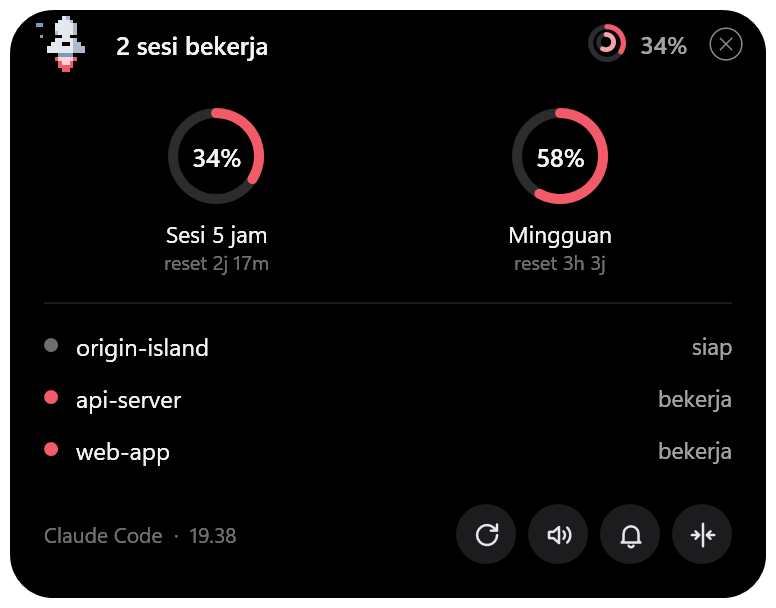
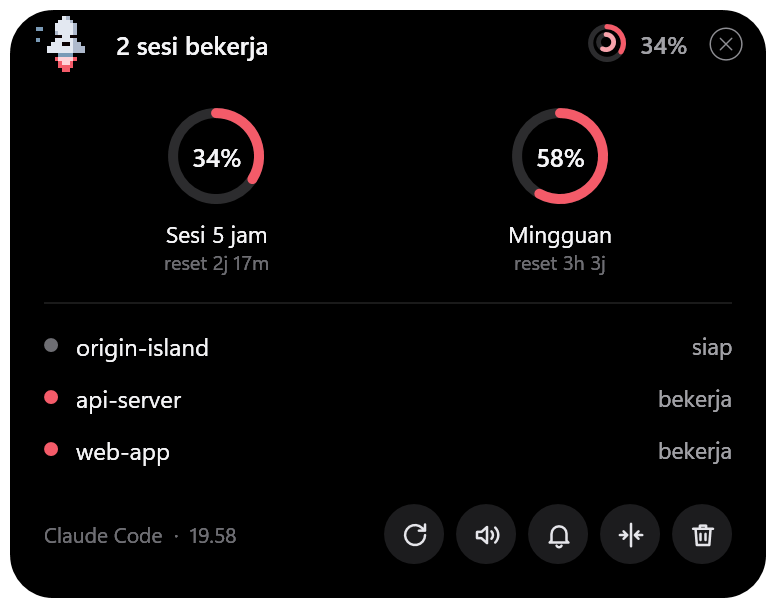
feat(site): menu ponsel dari kanan, anatomi notifikasi, dan fungsi tombol
- Menu ponsel kini panel dari kanan: tautan berikon, pemisah, tombol
  "Pasang sekarang", dan baris "Mode tampilan" (terang/sistem/gelap) di
  bawah. Klik tautan menutup panel. Navbar desktop tidak berubah.
- Bagian Tampilan: "Saat Claude selesai, ini yang muncul" menjelaskan isi
  notifikasi (judul & maskot, nama proyek, cuplikan balasan, ringkasan
  kuota, suara & klik), dan "Tombol di panel" menjelaskan fungsi setiap
  tombol dengan ikon yang sama persis dengan aplikasi, plus gerakan
  (seret, klik pil, klik baris sesi).
- Gambar panel hover dirender ulang dengan tombol uninstall.

diff --git a/docs/index.html b/docs/index.html
@@ -66,6 +66,49 @@
     @media (prefers-reduced-motion: reduce) { .sky .tw, .moon { animation: none; } }
     @media print { .sky, .moon { display: none; } }
 
+    /* Anatomi notifikasi & daftar tombol */
+    .anatomy { display: grid; gap: var(--space-lg); align-items: center; margin-top: var(--space-2xl); }
+    @media (min-width: 52rem) { .anatomy { grid-template-columns: minmax(0, 1fr) minmax(0, 1fr); } }
+    .anatomy__list { display: grid; gap: var(--space-sm); margin: 0; padding: 0; counter-reset: a; list-style: none; }
+    .anatomy__list li { display: grid; grid-template-columns: 2rem minmax(0, 1fr); column-gap: var(--space-sm); counter-increment: a; }
+    .anatomy__list li::before { content: counter(a); grid-row: span 2; display: grid; place-items: center; width: 2rem; height: 2rem; border-radius: 50%; background: var(--primary-tint); color: var(--primary-tint-text); font: var(--fw-bold) var(--fs-sm)/1 var(--font-display); }
+    .anatomy__list span { color: var(--text-muted); font-size: var(--fs-sm); }
+    .buttons-help { display: grid; gap: var(--space-xs); margin-top: var(--space-2xl); }
+    .btn-list { display: grid; gap: var(--space-md); margin: var(--space-sm) 0 0; padding: 0; list-style: none; grid-template-columns: repeat(auto-fill, minmax(min(100%, 16rem), 1fr)); }
+    .btn-list li { display: flex; gap: var(--space-sm); align-items: flex-start; }
+    .btn-list p { color: var(--text-muted); font-size: var(--fs-sm); }
+    .btn-chip { flex: 0 0 auto; display: grid; place-items: center; width: 2.5rem; height: 2.5rem; border-radius: 50%; background: var(--content-ink); color: var(--content-mist); }
+    .btn-chip .icon { width: 1.1rem; height: 1.1rem; }
+    .btn-chip--danger { color: var(--danger); }
+    .gestures { margin-top: var(--space-lg); padding: var(--space-md); border: 1px solid var(--border-subtle); border-radius: var(--radius-lg); background: var(--bg-surface); }
+    .gestures dt { display: inline-flex; align-items: center; gap: 0.45rem; font-weight: var(--fw-semibold); color: var(--text-main); }
+    .gestures dt .icon { width: 1.05rem; height: 1.05rem; color: var(--primary); }
+
+    /* Menu ponsel: panel dari kanan berisi ikon, CTA, dan pilihan mode (desktop tidak berubah) */
+    .nav-icon, .nav-extra { display: none; }
+    @media (max-width: 52rem) {
+      .site-header__nav {
+        inset: 0 0 0 auto;
+        border-right: 0;
+        border-left: 1px solid var(--border-subtle);
+        padding-left: var(--space-sm);
+        padding-right: max(var(--space-sm), env(safe-area-inset-right, 0px));
+        transform: translateX(105%);
+      }
+      .site-header__nav .nav { gap: 0.25rem; }
+      .site-header__nav .nav a { gap: 0.85rem; padding-inline: 0.75rem; font-size: var(--fs-md); font-weight: var(--fw-semibold); }
+      .nav-icon { display: inline-block; color: var(--primary); }
+      .nav-extra { display: block; padding-top: var(--space-sm); border-top: 1px solid var(--border-subtle); }
+      .nav-mode {
+        display: flex; align-items: center; justify-content: space-between; gap: var(--space-xs);
+        margin: auto calc(-1 * var(--space-sm)) calc(-1 * var(--space-sm));
+        padding: var(--space-sm);
+        background: var(--bg-muted);
+      }
+      .nav-mode__label { display: inline-flex; align-items: center; gap: 0.6rem; font-weight: var(--fw-semibold); }
+      .nav-mode__label .icon { color: var(--primary); }
+    }
+
     /* Tombol GitHub: logo + jumlah star */
     .gh-btn { gap: 0.45rem; }
     .gh-btn__stars { display: inline-flex; align-items: center; gap: 0.25rem; padding-left: 0.5rem; border-left: 1px solid var(--border-subtle); font-variant-numeric: tabular-nums; }
@@ -76,6 +119,13 @@
 <body>
 <!-- Logo GitHub (Simple Icons, CC0); design system belum menyediakannya -->
 <svg width="0" height="0" style="position: absolute" aria-hidden="true">
+  <!-- Ikon tombol, sama persis dengan aplikasi (icons/*.svg) -->
+  <symbol id="ii-refresh" viewBox="0 0 24 24" fill="none" stroke="currentColor" stroke-width="2" stroke-linecap="round" stroke-linejoin="round"><path d="M 20 12 A 8 8 0 1 1 17.66 6.34 L 20 8.5"/><path d="M 20 3.5 L 20 8.5 L 15 8.5"/></symbol>
+  <symbol id="ii-sound-on" viewBox="0 0 24 24" fill="none" stroke="currentColor" stroke-width="2" stroke-linecap="round" stroke-linejoin="round"><path d="M 4 9.5 L 7.5 9.5 L 12 5.5 L 12 18.5 L 7.5 14.5 L 4 14.5 Z"/><path d="M 15.5 9 A 4.2 4.2 0 0 1 15.5 15"/><path d="M 18.5 6 A 8.5 8.5 0 0 1 18.5 18"/></symbol>
+  <symbol id="ii-bell" viewBox="0 0 24 24" fill="none" stroke="currentColor" stroke-width="2" stroke-linecap="round" stroke-linejoin="round"><path d="M 6 16.5 L 6 11 A 6 6 0 0 1 18 11 L 18 16.5 L 19.5 18 L 4.5 18 Z"/><path d="M 10 20.5 A 2.2 2.2 0 0 0 14 20.5"/></symbol>
+  <symbol id="ii-center" viewBox="0 0 24 24" fill="none" stroke="currentColor" stroke-width="2" stroke-linecap="round" stroke-linejoin="round"><path d="M 12 3 L 12 21"/><path d="M 3 12 L 9 12 M 6 9 L 9 12 L 6 15"/><path d="M 21 12 L 15 12 M 18 9 L 15 12 L 18 15"/></symbol>
+  <symbol id="ii-trash" viewBox="0 0 24 24" fill="none" stroke="currentColor" stroke-width="2" stroke-linecap="round" stroke-linejoin="round"><path d="M 4 7 L 20 7"/><path d="M 9.5 7 L 9.5 4.5 L 14.5 4.5 L 14.5 7"/><path d="M 6 7 L 7 20 L 17 20 L 18 7"/><path d="M 10 11 L 10 16"/><path d="M 14 11 L 14 16"/></symbol>
+  <symbol id="ii-exit" viewBox="0 0 50 50"><path fill="currentColor" stroke="none" d="M 25 2 C 12.309534 2 2 12.309534 2 25 C 2 37.690466 12.309534 48 25 48 C 37.690466 48 48 37.690466 48 25 C 48 12.309534 37.690466 2 25 2 z M 25 4 C 36.609534 4 46 13.390466 46 25 C 46 36.609534 36.609534 46 25 46 C 13.390466 46 4 36.609534 4 25 C 4 13.390466 13.390466 4 25 4 z M 32.990234 15.986328 A 1.0001 1.0001 0 0 0 32.292969 16.292969 L 25 23.585938 L 17.707031 16.292969 A 1.0001 1.0001 0 0 0 16.990234 15.990234 A 1.0001 1.0001 0 0 0 16.292969 17.707031 L 23.585938 25 L 16.292969 32.292969 A 1.0001 1.0001 0 1 0 17.707031 33.707031 L 25 26.414062 L 32.292969 33.707031 A 1.0001 1.0001 0 1 0 33.707031 32.292969 L 26.414062 25 L 33.707031 17.707031 A 1.0001 1.0001 0 0 0 32.990234 15.986328 z"/></symbol>
   <symbol id="b-github" viewBox="0 0 24 24"><path fill="currentColor" stroke="none" d="M12 .297c-6.63 0-12 5.373-12 12 0 5.303 3.438 9.8 8.205 11.385.6.113.82-.258.82-.577 0-.285-.01-1.04-.015-2.04-3.338.724-4.042-1.61-4.042-1.61C4.422 18.07 3.633 17.7 3.633 17.7c-1.087-.744.084-.729.084-.729 1.205.084 1.838 1.236 1.838 1.236 1.07 1.835 2.809 1.305 3.495.998.108-.776.417-1.305.76-1.605-2.665-.3-5.466-1.332-5.466-5.93 0-1.31.465-2.38 1.235-3.22-.135-.303-.54-1.523.105-3.176 0 0 1.005-.322 3.3 1.23.96-.267 1.98-.399 3-.405 1.02.006 2.04.138 3 .405 2.28-1.552 3.285-1.23 3.285-1.23.645 1.653.24 2.873.12 3.176.765.84 1.23 1.91 1.23 3.22 0 4.61-2.805 5.625-5.475 5.92.42.36.81 1.096.81 2.22 0 1.606-.015 2.896-.015 3.286 0 .315.21.69.825.57C20.565 22.092 24 17.592 24 12.297c0-6.627-5.373-12-12-12"/></symbol>
 </svg>
 <div class="sky" aria-hidden="true"></div>
@@ -93,11 +143,23 @@
         <button class="btn btn--ghost btn--icon btn--sm" type="button" data-menu-toggle aria-controls="menu" aria-expanded="false" aria-label="Tutup menu"><svg class="icon" aria-hidden="true"><use href="assets/origin-sprite.svg#i-x"/></svg></button>
       </div>
       <ul class="nav">
-        <li><a href="#fitur">Fitur</a></li>
-        <li><a href="#tampilan">Tampilan</a></li>
-        <li><a href="#pasang">Cara pasang</a></li>
-        <li><a href="#faq">FAQ</a></li>
+        <li><a href="#fitur"><svg class="icon nav-icon" aria-hidden="true"><use href="assets/origin-sprite.svg#i-sparkles"/></svg>Fitur</a></li>
+        <li><a href="#tampilan"><svg class="icon nav-icon" aria-hidden="true"><use href="assets/origin-sprite.svg#i-eye"/></svg>Tampilan</a></li>
+        <li><a href="#pasang"><svg class="icon nav-icon" aria-hidden="true"><use href="assets/origin-sprite.svg#i-download"/></svg>Cara pasang</a></li>
+        <li><a href="#faq"><svg class="icon nav-icon" aria-hidden="true"><use href="assets/origin-sprite.svg#i-help-circle"/></svg>FAQ</a></li>
       </ul>
+      <!-- Hanya di panel ponsel -->
+      <div class="nav-extra">
+        <a class="btn btn--accent btn--block" href="#pasang">Pasang sekarang<svg class="icon" aria-hidden="true"><use href="assets/origin-sprite.svg#i-arrow-right"/></svg></a>
+      </div>
+      <div class="nav-extra nav-mode">
+        <span class="nav-mode__label"><svg class="icon" aria-hidden="true"><use href="assets/origin-sprite.svg#i-palette"/></svg>Mode tampilan</span>
+        <div class="segmented segmented--icons" role="group" aria-label="Mode tampilan">
+          <button type="button" data-theme-choice="light" aria-label="Terang" aria-pressed="false"><svg class="icon" aria-hidden="true"><use href="assets/origin-sprite.svg#i-sun"/></svg></button>
+          <button type="button" data-theme-choice="system" aria-label="Ikuti sistem" aria-pressed="true"><svg class="icon" aria-hidden="true"><use href="assets/origin-sprite.svg#i-monitor"/></svg></button>
+          <button type="button" data-theme-choice="dark" aria-label="Gelap" aria-pressed="false"><svg class="icon" aria-hidden="true"><use href="assets/origin-sprite.svg#i-moon"/></svg></button>
+        </div>
+      </div>
     </nav>
     <div class="site-header__actions">
       <div class="segmented segmented--icons hide-mobile" role="group" aria-label="Mode tampilan">
@@ -177,6 +239,41 @@
         </div>
         <figure class="shot shots__wide"><img src="img/hover.png" width="776" height="608" alt="Panel Origin Island saat disorot: cincin kuota sesi 5 jam 34% dan mingguan 58%, tiga sesi aktif, dan tombol perbarui, suara, tes suara, serta ke tengah." loading="lazy"><figcaption>Saat disorot: kuota, sesi aktif, dan tombol</figcaption></figure>
       </div>
+
+      <!-- Anatomi notifikasi selesai -->
+      <div class="anatomy" id="notifikasi">
+        <figure class="shot shots__wide"><img src="img/done.png" width="776" height="402" alt="Contoh notifikasi Claude selesai dari Origin Island." loading="lazy"></figure>
+        <div class="stack">
+          <h3>Saat Claude selesai, ini yang muncul</h3>
+          <ol class="anatomy__list">
+            <li><strong>Judul &amp; maskot</strong><span>"Claude selesai" dengan Ogin bercentang hijau. Jenis lain: <em>Claude butuh izin</em> (kuning) dan <em>Claude gagal</em> (merah).</span></li>
+            <li><strong>Nama proyek</strong><span>Folder tempat sesi itu berjalan, misalnya <code>web-app</code>, jadi Anda tahu sesi mana yang selesai.</span></li>
+            <li><strong>Cuplikan balasan</strong><span>Kalimat terakhir dari Claude, supaya Anda tahu hasilnya tanpa membuka terminal.</span></li>
+            <li><strong>Ringkasan kuota</strong><span>Sisa kuota sesi 5 jam dan mingguan saat itu.</span></li>
+            <li><strong>Suara &amp; klik</strong><span>Suara notifikasi berbunyi, lalu notifikasi menutup sendiri setelah beberapa detik. Klik untuk langsung ke terminal sesi itu.</span></li>
+          </ol>
+        </div>
+      </div>
+
+      <!-- Fungsi tombol -->
+      <div class="buttons-help">
+        <h3>Tombol di panel</h3>
+        <p class="lead">Muncul saat kursor diarahkan ke pil.</p>
+        <ul class="btn-list">
+          <li><span class="btn-chip"><svg class="icon" aria-hidden="true"><use href="#ii-refresh"/></svg></span><div><strong>Muat ulang kuota</strong><p>Membaca ulang angka kuota terbaru dari Claude Code.</p></div></li>
+          <li><span class="btn-chip"><svg class="icon" aria-hidden="true"><use href="#ii-sound-on"/></svg></span><div><strong>Suara nyala/mati</strong><p>Menyalakan atau mematikan suara notifikasi. Pilihan Anda diingat.</p></div></li>
+          <li><span class="btn-chip"><svg class="icon" aria-hidden="true"><use href="#ii-bell"/></svg></span><div><strong>Tes suara</strong><p>Memutar suara notifikasi untuk mengecek volume.</p></div></li>
+          <li><span class="btn-chip"><svg class="icon" aria-hidden="true"><use href="#ii-center"/></svg></span><div><strong>Ke tengah</strong><p>Memindahkan pil ke tengah atas layar tempat ia berada (utama maupun monitor kedua).</p></div></li>
+          <li><span class="btn-chip btn-chip--danger"><svg class="icon" aria-hidden="true"><use href="#ii-trash"/></svg></span><div><strong>Uninstall</strong><p>Menghapus Origin Island beserta hook-nya. Selalu meminta konfirmasi dulu.</p></div></li>
+          <li><span class="btn-chip btn-chip--danger"><svg class="icon" aria-hidden="true"><use href="#ii-exit"/></svg></span><div><strong>Tutup (kanan atas)</strong><p>Menutup pil. Pil menyala lagi saat Claude dipakai atau terminal WSL dibuka.</p></div></li>
+        </ul>
+        <dl class="kv gestures">
+          <dt><svg class="icon" aria-hidden="true"><use href="assets/origin-sprite.svg#i-move"/></svg>Seret pil</dt><dd>Geser ke kiri, kanan, atau ke monitor lain. Posisinya diingat.</dd>
+          <dt><svg class="icon" aria-hidden="true"><use href="assets/origin-sprite.svg#i-laptop"/></svg>Klik pil / notifikasi</dt><dd>Membuka terminal sesi terkait (Windows Terminal atau VS Code).</dd>
+          <dt><svg class="icon" aria-hidden="true"><use href="assets/origin-sprite.svg#i-list"/></svg>Klik baris sesi</dt><dd>Membuka terminal sesi tersebut.</dd>
+        </dl>
+      </div>
+
     </div>
   </section>
 
@@ -339,6 +436,15 @@ cd origin-island
       "Q" + sx.toFixed(1) + " " + sy.toFixed(1) + " " + sx.toFixed(1) + " " + (sy - s).toFixed(1) + 'Z" fill="currentColor"/>';
   }
   sky.innerHTML = '<svg viewBox="0 0 ' + W + " " + H + '" preserveAspectRatio="xMidYMid slice" fill="currentColor">' + out + "</svg>";
+})();
+
+/* Klik tautan di menu ponsel = tutup panel. */
+(function () {
+  var menu = document.getElementById("menu"); if (!menu) return;
+  menu.addEventListener("click", function (e) {
+    if (!e.target.closest("a") || menu.dataset.open !== "true") return;
+    var close = menu.querySelector("[data-menu-toggle]"); if (close) close.click();
+  });
 })();
 
 /* Tahun hak cipta selalu tahun berjalan (angka di HTML hanya cadangan bila JavaScript mati). */
